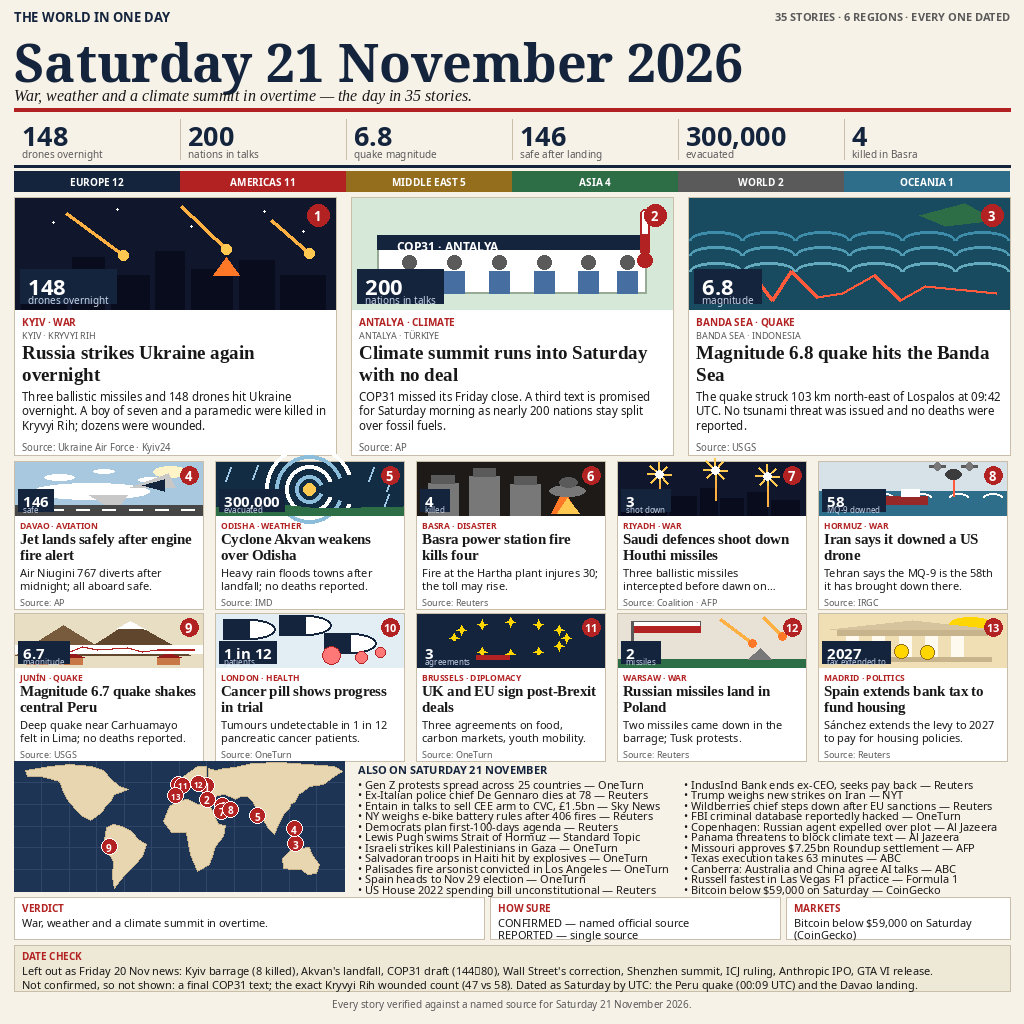
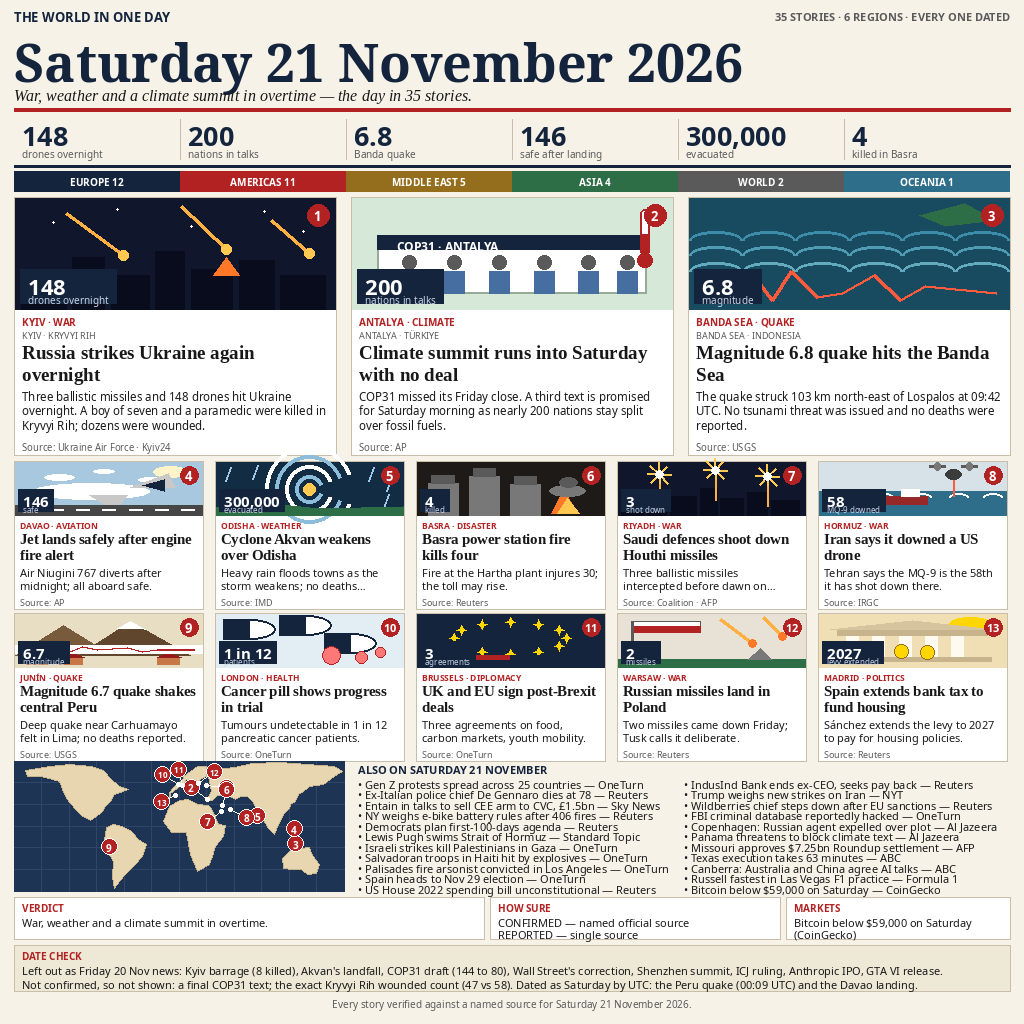
n21 v1 fixes: disambiguate strip 6.8, date the Poland/Akvan cards, arrow fix, map pin spread

diff --git a/draw_n21.py b/draw_n21.py
@@ -123,7 +123,7 @@ GRID = [
          src="AP", scene="davao"),
     dict(num=5, tag="ODISHA · WEATHER", place="ODISHA · INDIA",
          head="Cyclone Akvan weakens over Odisha",
-         body="Heavy rain floods towns after landfall; no deaths reported.",
+         body="Heavy rain floods towns as the storm weakens; no deaths reported.",
          big="300,000", big_label="evacuated",
          src="IMD", scene="akvan"),
     dict(num=6, tag="BASRA · DISASTER", place="BASRA · IRAQ",
@@ -138,7 +138,7 @@ GRID = [
          src="Coalition · AFP", scene="riyadh"),
     dict(num=8, tag="HORMUZ · WAR", place="STRAIT OF HORMUZ",
          head="Iran says it downed a US drone",
-         body="Tehran says the MQ-9 is the 58th it has brought down there.",
+         body="Tehran says the MQ-9 is the 58th it has shot down there.",
          big="58", big_label="MQ-9 downed",
          src="IRGC", scene="hormuz"),
     dict(num=9, tag="JUNÍN · QUAKE", place="JUNÍN · PERU",
@@ -158,13 +158,13 @@ GRID = [
          src="OneTurn", scene="brussels"),
     dict(num=12, tag="WARSAW · WAR", place="WARSAW · POLAND",
          head="Russian missiles land in Poland",
-         body="Two missiles came down in the barrage; Tusk protests.",
+         body="Two missiles came down Friday; Tusk calls it deliberate.",
          big="2", big_label="missiles",
          src="Reuters", scene="poland"),
     dict(num=13, tag="MADRID · POLITICS", place="MADRID · SPAIN",
          head="Spain extends bank tax to fund housing",
          body="Sánchez extends the levy to 2027 to pay for housing policies.",
-         big="2027", big_label="tax extended to",
+         big="2027", big_label="levy extended",
          src="Reuters", scene="madrid"),
 ]
 
@@ -205,7 +205,7 @@ REGIONS = [
 STRIP = [
     ("148", "drones overnight"),
     ("200", "nations in talks"),
-    ("6.8", "quake magnitude"),
+    ("6.8", "Banda quake"),
     ("146", "safe after landing"),
     ("300,000", "evacuated"),
     ("4", "killed in Basra"),
@@ -566,9 +566,20 @@ def draw_map(d, x, y, w, h):
     for cont in CONTINENTS:
         pts = [px(lon, lat) for lon, lat in cont]
         d.polygon(pts, fill=(232, 214, 176), outline=(200, 180, 140))
-    # pins
+    # pins (Europe pins are offset with a leader line: at map scale London,
+    # Brussels, Warsaw, Kyiv and Madrid sit within a few pixels of each other)
+    PIN_OFFSETS = {1: (20, 2), 2: (-16, -12), 6: (4, -16), 7: (-14, 10),
+                   8: (16, 8), 10: (-16, -10), 11: (-4, -16),
+                   12: (16, -12), 13: (-14, 6)}
     for n, lat, lon in PINS:
         px0, py0 = px(lon, lat)
+        dx, dy = PIN_OFFSETS.get(n, (0, 0))
+        cx, cy = px0 + dx, py0 + dy
+        if (dx, dy) != (0, 0):
+            d.line([px0, py0, cx, cy], fill=(255, 255, 255), width=1)
+            d.ellipse([px0 - 2, py0 - 2, px0 + 2, py0 + 2],
+                      fill=(255, 255, 255))
+        px0, py0 = cx, cy
         r = 8
         d.ellipse([px0 - r, py0 - r, px0 + r, py0 + r], fill=RED,
                   outline=(255, 255, 255), width=1)
@@ -741,7 +752,7 @@ def build():
     f_dc = font(F_SANS, 11)
     d.text((MX + 8, y + 18),
            "Left out as Friday 20 Nov news: Kyiv barrage (8 killed), "
-           "Akvan's landfall, COP31 draft (144→80), Wall Street's "
+           "Akvan's landfall, COP31 draft (144 to 80), Wall Street's "
            "correction, Shenzhen summit, ICJ ruling, Anthropic IPO, "
            "GTA VI release.", font=f_dc, fill=INK)
     d.text((MX + 8, y + 32),
